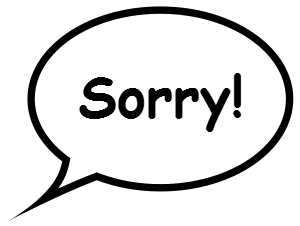
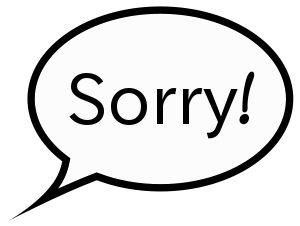
Updated the extension with new sounds/images.
Added a "Thanks, eh!" audio recording, and adjusted the
speech bubble. Added a new chrome extension icon. Tried
to adjust the timeout so that the the gif wouldn't glitch
towards the end of the animation.

Changed region(s): [[0.21, 0.3097, 0.87, 0.6195]]

diff --git a/popup.js b/popup.js
@@ -54,7 +54,7 @@ function slapAnimation() {
 
   document.getElementById("slap").src="./images/slap.gif";
 
-  var sound = new Audio('./Voice0004.mp3');
+  var sound = new Audio('./sorry.mp3');
   sound.play();
   document.getElementById("sorry").style.visibility="visible";
 
@@ -69,12 +69,12 @@ function slapAnimation() {
 
     document.getElementById("slap").src="./images/slap-reversed.gif";
 
-    var sound = new Audio('./Voice0004.mp3');
+    var sound = new Audio('./thanks.mp3');
     sound.play();
-    document.getElementById("thankyou").style.visibility="visible";
+    document.getElementById("thankseh").style.visibility="visible";
 
     document.getElementById("slapbutton").innerText = "Slap!";
-    setTimeout(function() { standby();}, 2500);
+    setTimeout(function() { standby();}, 2550);
 
     slapped = false;
 
@@ -88,7 +88,7 @@ function standbyReversed() {
 
 function standby() {
   document.getElementById("slap").src="./images/slap-still.png";
-  document.getElementById("sorry").style.visibility="hidden";
+  document.getElementById("thankseh").style.visibility="hidden";
 }
 
 document.addEventListener('DOMContentLoaded', function() {

diff --git a/popup.html b/popup.html
@@ -20,7 +20,7 @@
 <div id="face">
   <img id="slap" src="images/slap-still.png">
   <img id="sorry" src="images/speechbubble.png">
-  <img id="thankyou" src ="images/thankyou.png">
+  <img id="thankseh" src ="images/thankseh.png">
 </div>
   <button id="slapbutton" type="button">Slap!</button>
 </body>

diff --git a/style.css b/style.css
@@ -16,7 +16,7 @@
     left:0px;
     z-index:-1;
 }
-#thankyou{
+#thankseh{
     height:113px;
     width:150px;
   
